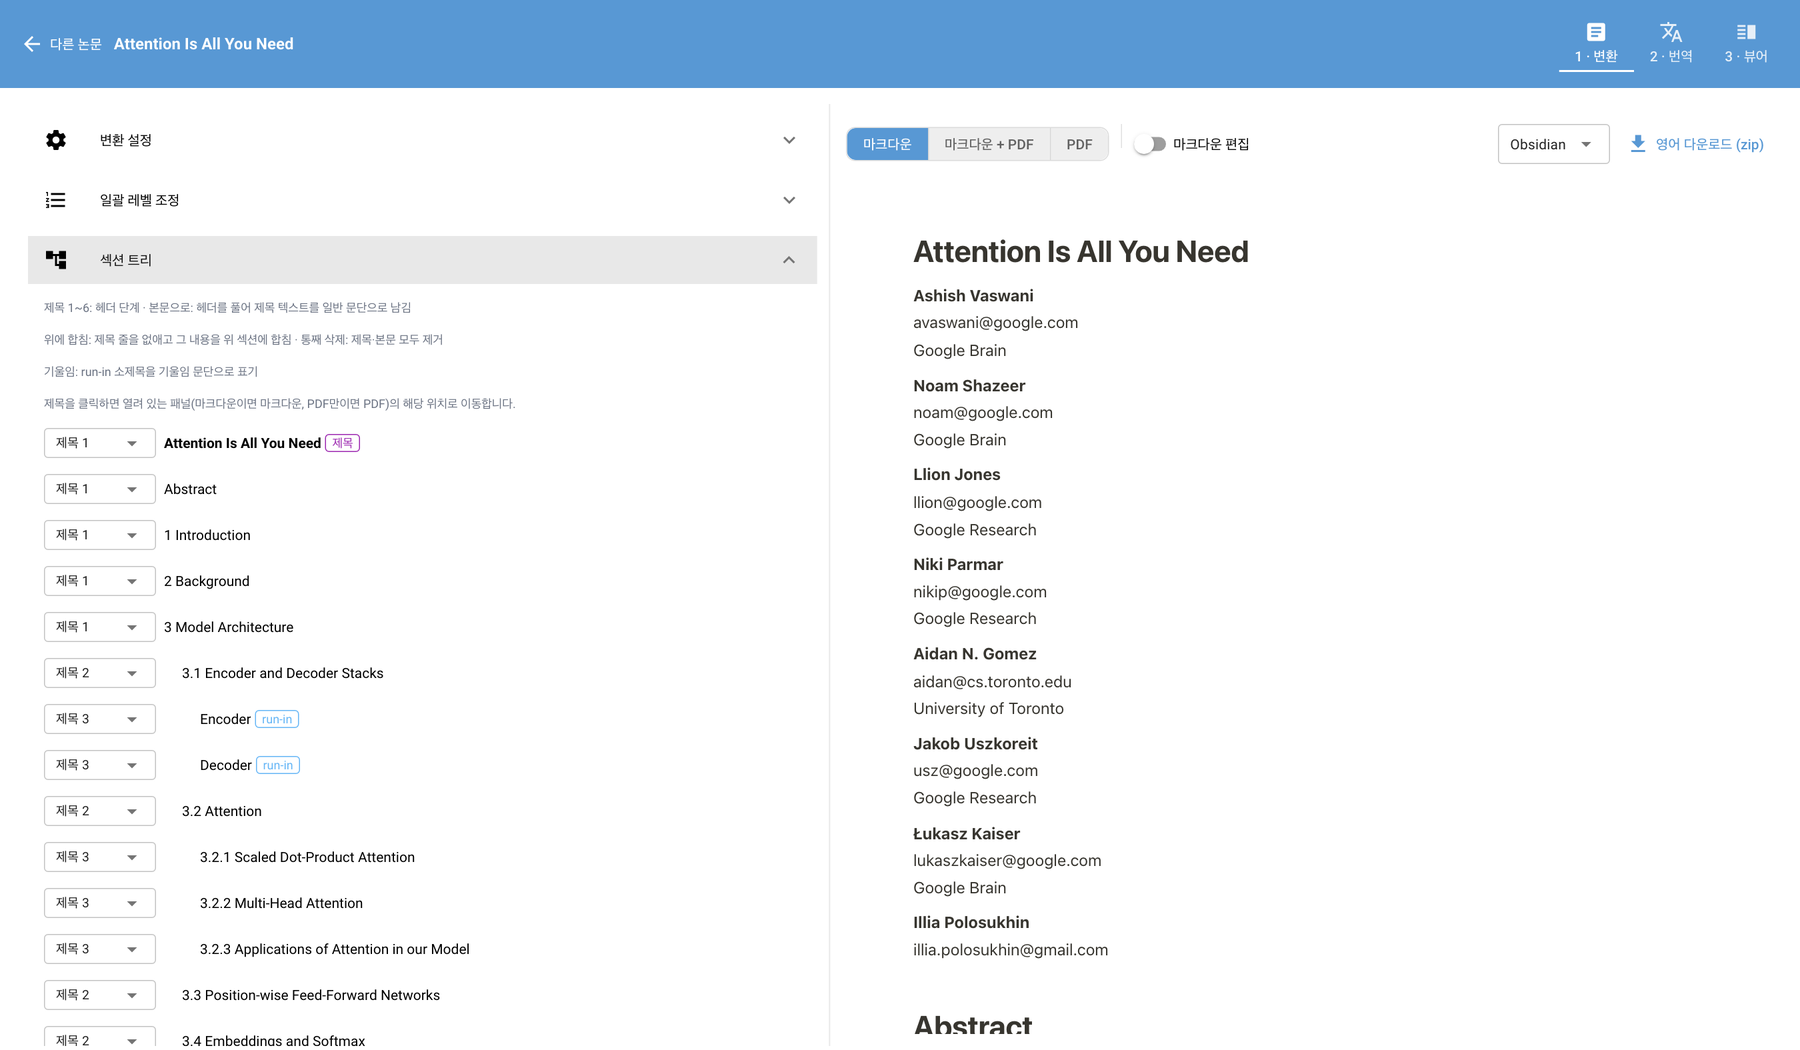
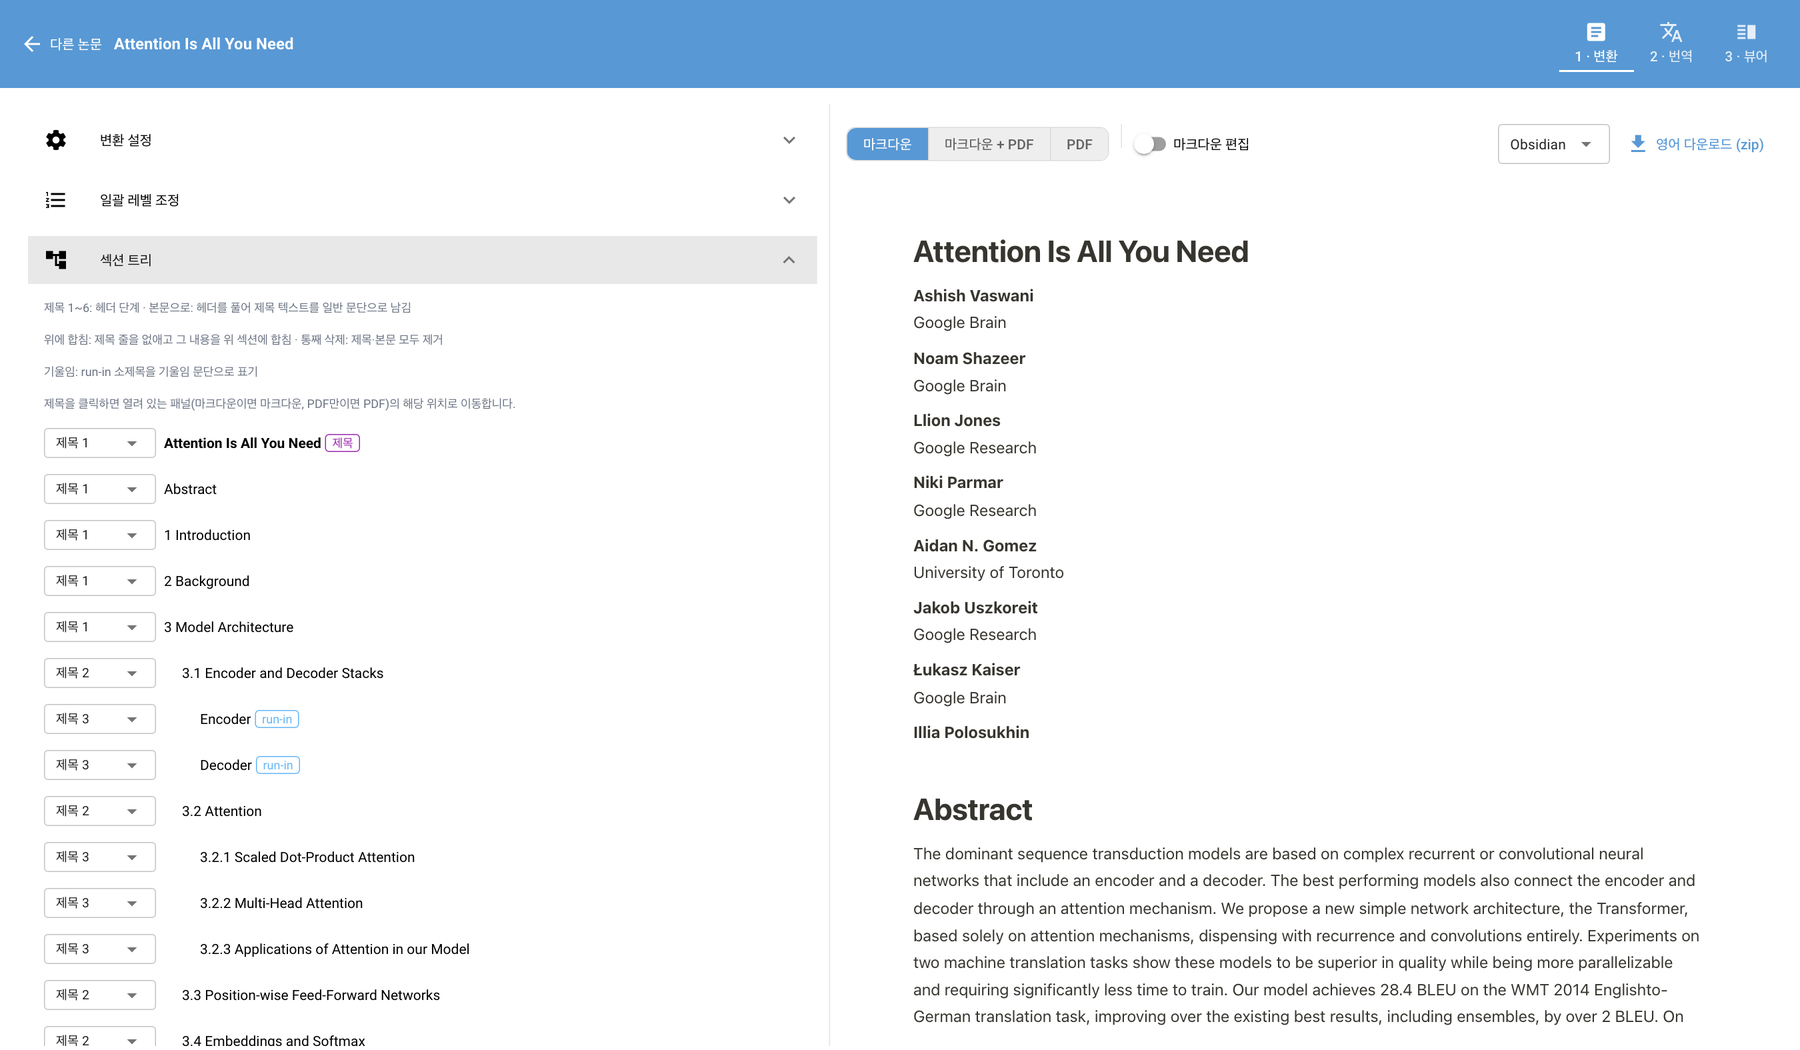
저자 표기 옵션 버그 2건 수정 + 스크린샷에서 이메일 제거
이메일 표기를 끄려다 발견한 것들:

1. author_parts가 매니페스트 YAML에 저장되지 않아, 다시 열면 config 기본값으로 되돌아갔다.
   UI 체크박스와 실제 raw.md 저자 블록이 어긋나고, 그 상태에서 토글하면 옛 블록을 못 찾아
   조용히 무시된다. → emit/load에 author_parts 추가(옛 매니페스트는 config 폴백).

2. set_author_parts가 raw.md를 다시 쓰면서 라인 앵커를 갱신하지 않았다. 렌더러는 raw.md의
   절대 줄 번호로 섹션을 찾으므로(render_markdown의 by_line), 저자당 한 줄씩 줄어든 만큼
   모든 섹션이 밀려 원본 헤더는 남고 매니페스트 헤더가 따로 찍혔다 — 문서 전체가 중복·뒤섞임.
   → 블록 뒤 섹션의 line과 blocks.json(headings·figures·n_lines·raw_md_hash)을 함께 이동.

스크린샷은 이메일을 끈 상태로 재촬영. 저자 블록이 저자당 3줄→2줄로 줄어 본문(Abstract·
Introduction)이 화면에 들어온다. 데모 워크디렉토리는 깨끗하게 재변환 후 재번역했다.

- tests: 라인 앵커 이동 회귀 1개(수정 없으면 헤더 중복으로 실패), author_parts 영속 2개 (250개 통과)

Changed region(s): [[0.4978, 0.3048, 0.9333, 1.0]]

diff --git a/src/md4paper/ui/controller.py b/src/md4paper/ui/controller.py
@@ -188,9 +188,47 @@ class UIController:
         old_block = _render_authors_detail(entries, old_parts)
         if old_block and old_block in raw:
             new_block = _render_authors_detail(entries, new_parts)
-            self.wd.raw_md.write_text(raw.replace(old_block, new_block, 1), encoding="utf-8")
+            at = raw.index(old_block)
+            new_raw = raw.replace(old_block, new_block, 1)
+            self.wd.raw_md.write_text(new_raw, encoding="utf-8")
+            delta = new_block.count("\n") - old_block.count("\n")
+            if delta:
+                self._shift_line_anchors(raw.count("\n", 0, at), delta, new_raw)
             return True
         return False  # 원본 블록을 못 찾음(수동 편집 등) → 매니페스트만 갱신
+
+    def _shift_line_anchors(self, after_line: int, delta: int, new_raw: str) -> None:
+        """raw.md 줄 수가 바뀌었으니 라인 앵커(매니페스트·blocks.json)를 함께 민다.
+
+        렌더러는 raw.md의 **절대 줄 번호**로 섹션을 찾는다(render_markdown의 by_line).
+        안 밀면 헤더가 엉뚱한 줄에 붙어, 원본 헤더는 그대로 남고 매니페스트 헤더가 따로 찍혀
+        문서 전체가 중복·뒤섞인다(이메일 표기를 끄면 저자당 한 줄씩 줄어 실제로 발생했다).
+        """
+        from md4paper.workdir import hash_text
+
+        for s in self.manifest.sections:
+            if s.line > after_line:
+                s.line += delta
+        if not self.wd.blocks_json.exists():
+            return
+        try:
+            blocks = json.loads(self.wd.blocks_json.read_text(encoding="utf-8"))
+        except (OSError, ValueError):
+            return  # 앵커 파일이 깨졌으면 건드리지 않는다 (재변환이 정답)
+        for item in blocks.get("headings", []):
+            if isinstance(item.get("line"), int) and item["line"] > after_line:
+                item["line"] += delta
+        for item in blocks.get("figures", []):
+            for field in ("image_line", "caption_line"):
+                if isinstance(item.get(field), int) and item[field] > after_line:
+                    item[field] += delta
+            item["consumed_lines"] = [
+                ln + delta if ln > after_line else ln for ln in item.get("consumed_lines", [])
+            ]
+        blocks["n_lines"] = len(new_raw.splitlines())
+        blocks["raw_md_hash"] = hash_text(new_raw)
+        self.wd.blocks_json.write_text(
+            json.dumps(blocks, ensure_ascii=False, indent=2), encoding="utf-8")
 
     # --- 저장 / 렌더 ---
     def save(self) -> tuple[int, int]:

diff --git a/tests/test_ui_controller.py b/tests/test_ui_controller.py
@@ -455,3 +455,45 @@ def test_universal_export_zip_keeps_images_folder(ctrl):
     stem = ctrl.wd.root.stem
     assert f"{stem}-en/{stem}.en.md" in names  # 종전 구조 유지
     assert any(n.startswith(f"{stem}-en/images/") for n in names)
+
+
+def test_set_author_parts_shifts_line_anchors(tmp_path):
+    """이메일 표기를 끄면 raw.md 줄 수가 줄어드니 라인 앵커도 함께 밀려야 한다.
+
+    렌더러는 raw.md의 절대 줄 번호로 섹션을 찾으므로, 안 밀면 헤더가 엉뚱한 줄에 붙어
+    원본 헤더는 남고 매니페스트 헤더가 또 찍혀 문서가 통째로 중복된다(실측).
+    """
+    import json
+
+    from md4paper import pipeline
+    from md4paper.extract.front_matter import _render_authors_detail
+    from md4paper.ir import AuthorEntry
+    from md4paper.ui.controller import UIController
+    from md4paper.workdir import WorkDir
+
+    wd = WorkDir(tmp_path / "p.md4")
+    wd.extract.mkdir(parents=True)
+    authors = [
+        AuthorEntry(name="A One", emails=["a@x.edu"], affiliations=["X Lab"]),
+        AuthorEntry(name="B Two", emails=["b@y.edu"], affiliations=["Y Lab"]),
+    ]
+    block = _render_authors_detail(authors, ["email", "affiliation"])
+    wd.raw_md.write_text(
+        f"## Paper Title\n\n{block}\n\n## Abstract\n\nAbstract body.\n\n"
+        "## 1 Introduction\n\nIntro body.\n",
+        encoding="utf-8",
+    )
+    wd.authors_json.write_text(
+        json.dumps([a.model_dump() for a in authors], ensure_ascii=False), encoding="utf-8")
+    pipeline.run_structure(wd)
+
+    ctrl = UIController(wd)
+    assert ctrl.set_author_parts(["affiliation"]) is True  # 이메일 끄기 → 2줄 줄어듦
+    ctrl.save_and_reassemble()
+
+    en = wd.en_md.read_text(encoding="utf-8")
+    assert "a@x.edu" not in en                       # 이메일이 실제로 빠졌고
+    heads = [ln for ln in en.splitlines() if ln.startswith("#")]
+    assert len(heads) == len(set(heads)), f"헤더가 중복됐다: {heads}"
+    assert sum(1 for h in heads if h.endswith("Abstract")) == 1
+    assert sum(1 for h in heads if h.endswith("1 Introduction")) == 1

diff --git a/tests/test_pipeline.py b/tests/test_pipeline.py
@@ -490,3 +490,29 @@ def test_cli_convert_runs_frontmatter_stage(tmp_path, monkeypatch):
     assert "frontmatter" in wd.load_status()  # 단계가 실제로 돌았다
     raw = wd.raw_md.read_text(encoding="utf-8")
     assert "## [Andrew Jelson]" not in raw  # 저자 줄이 헤더로 남지 않는다
+
+
+def test_manifest_persists_author_parts(tmp_path):
+    """저자 표기(author_parts)는 매니페스트에 저장·복원된다.
+
+    저장 안 하면 다시 열 때 config 기본값으로 되돌아가, UI 체크박스와 실제 raw.md 저자 블록이
+    어긋난다(그 상태에서 토글하면 옛 블록을 못 찾아 조용히 무시됨).
+    """
+    from md4paper.ir import Flavor, Manifest
+
+    wd = WorkDir(tmp_path / "p.md4")
+    wd.structure.mkdir(parents=True)
+    m = Manifest(title="T", flavor=Flavor.STANDARD, author_parts=["affiliation"], sections=[])
+    manifest_io.save(m, wd)
+
+    assert "author_parts" in wd.sections_yaml.read_text(encoding="utf-8")
+    assert manifest_io.load(wd).author_parts == ["affiliation"]
+
+
+def test_manifest_without_author_parts_falls_back_to_config(tmp_path):
+    """옛 매니페스트(키 없음)는 config 기본값(이메일+소속)을 따른다."""
+    wd = WorkDir(tmp_path / "old.md4")
+    wd.structure.mkdir(parents=True)
+    wd.sections_yaml.write_text("title: T\ncitation_parts:\n- number\nsections: []\n", encoding="utf-8")
+
+    assert manifest_io.load(wd).author_parts == ["email", "affiliation"]

diff --git a/src/md4paper/review/manifest.py b/src/md4paper/review/manifest.py
@@ -39,6 +39,9 @@ def to_yaml(manifest: Manifest) -> str:
     root = CommentedMap()
     root["title"] = manifest.title
     root["citation_parts"] = list(manifest.citation_parts)
+    # 저자 표기 — 저장 안 하면 다시 열 때 config 기본값으로 되돌아가, UI 체크박스와 실제
+    # raw.md 저자 블록이 어긋난다(그 상태에서 토글하면 옛 블록을 못 찾아 조용히 무시된다).
+    root["author_parts"] = list(manifest.author_parts)
     root["reference_links"] = manifest.reference_links
     root["flavor"] = manifest.flavor.value
     root["caption_style"] = manifest.caption_style
@@ -139,9 +142,20 @@ def load(wd: WorkDir) -> Manifest:
     else:
         parts = ["number"]
 
+    # 저자 표기 — 옛 매니페스트(키 없음)는 config 기본값을 따른다.
+    if isinstance(data.get("author_parts"), list):
+        from md4paper.config import _AUTHOR_PARTS
+
+        author_parts = [str(p) for p in data["author_parts"] if str(p) in _AUTHOR_PARTS]
+    else:
+        from md4paper.config import resolve_author_parts
+
+        author_parts = resolve_author_parts()
+
     return Manifest(
         title=str(data.get("title", "")),
         citation_parts=parts,
+        author_parts=author_parts,
         reference_links=bool(data.get("reference_links", True)),
         flavor=Flavor(data.get("flavor", "standard")),
         caption_style=data.get("caption_style", "bold-italic"),
